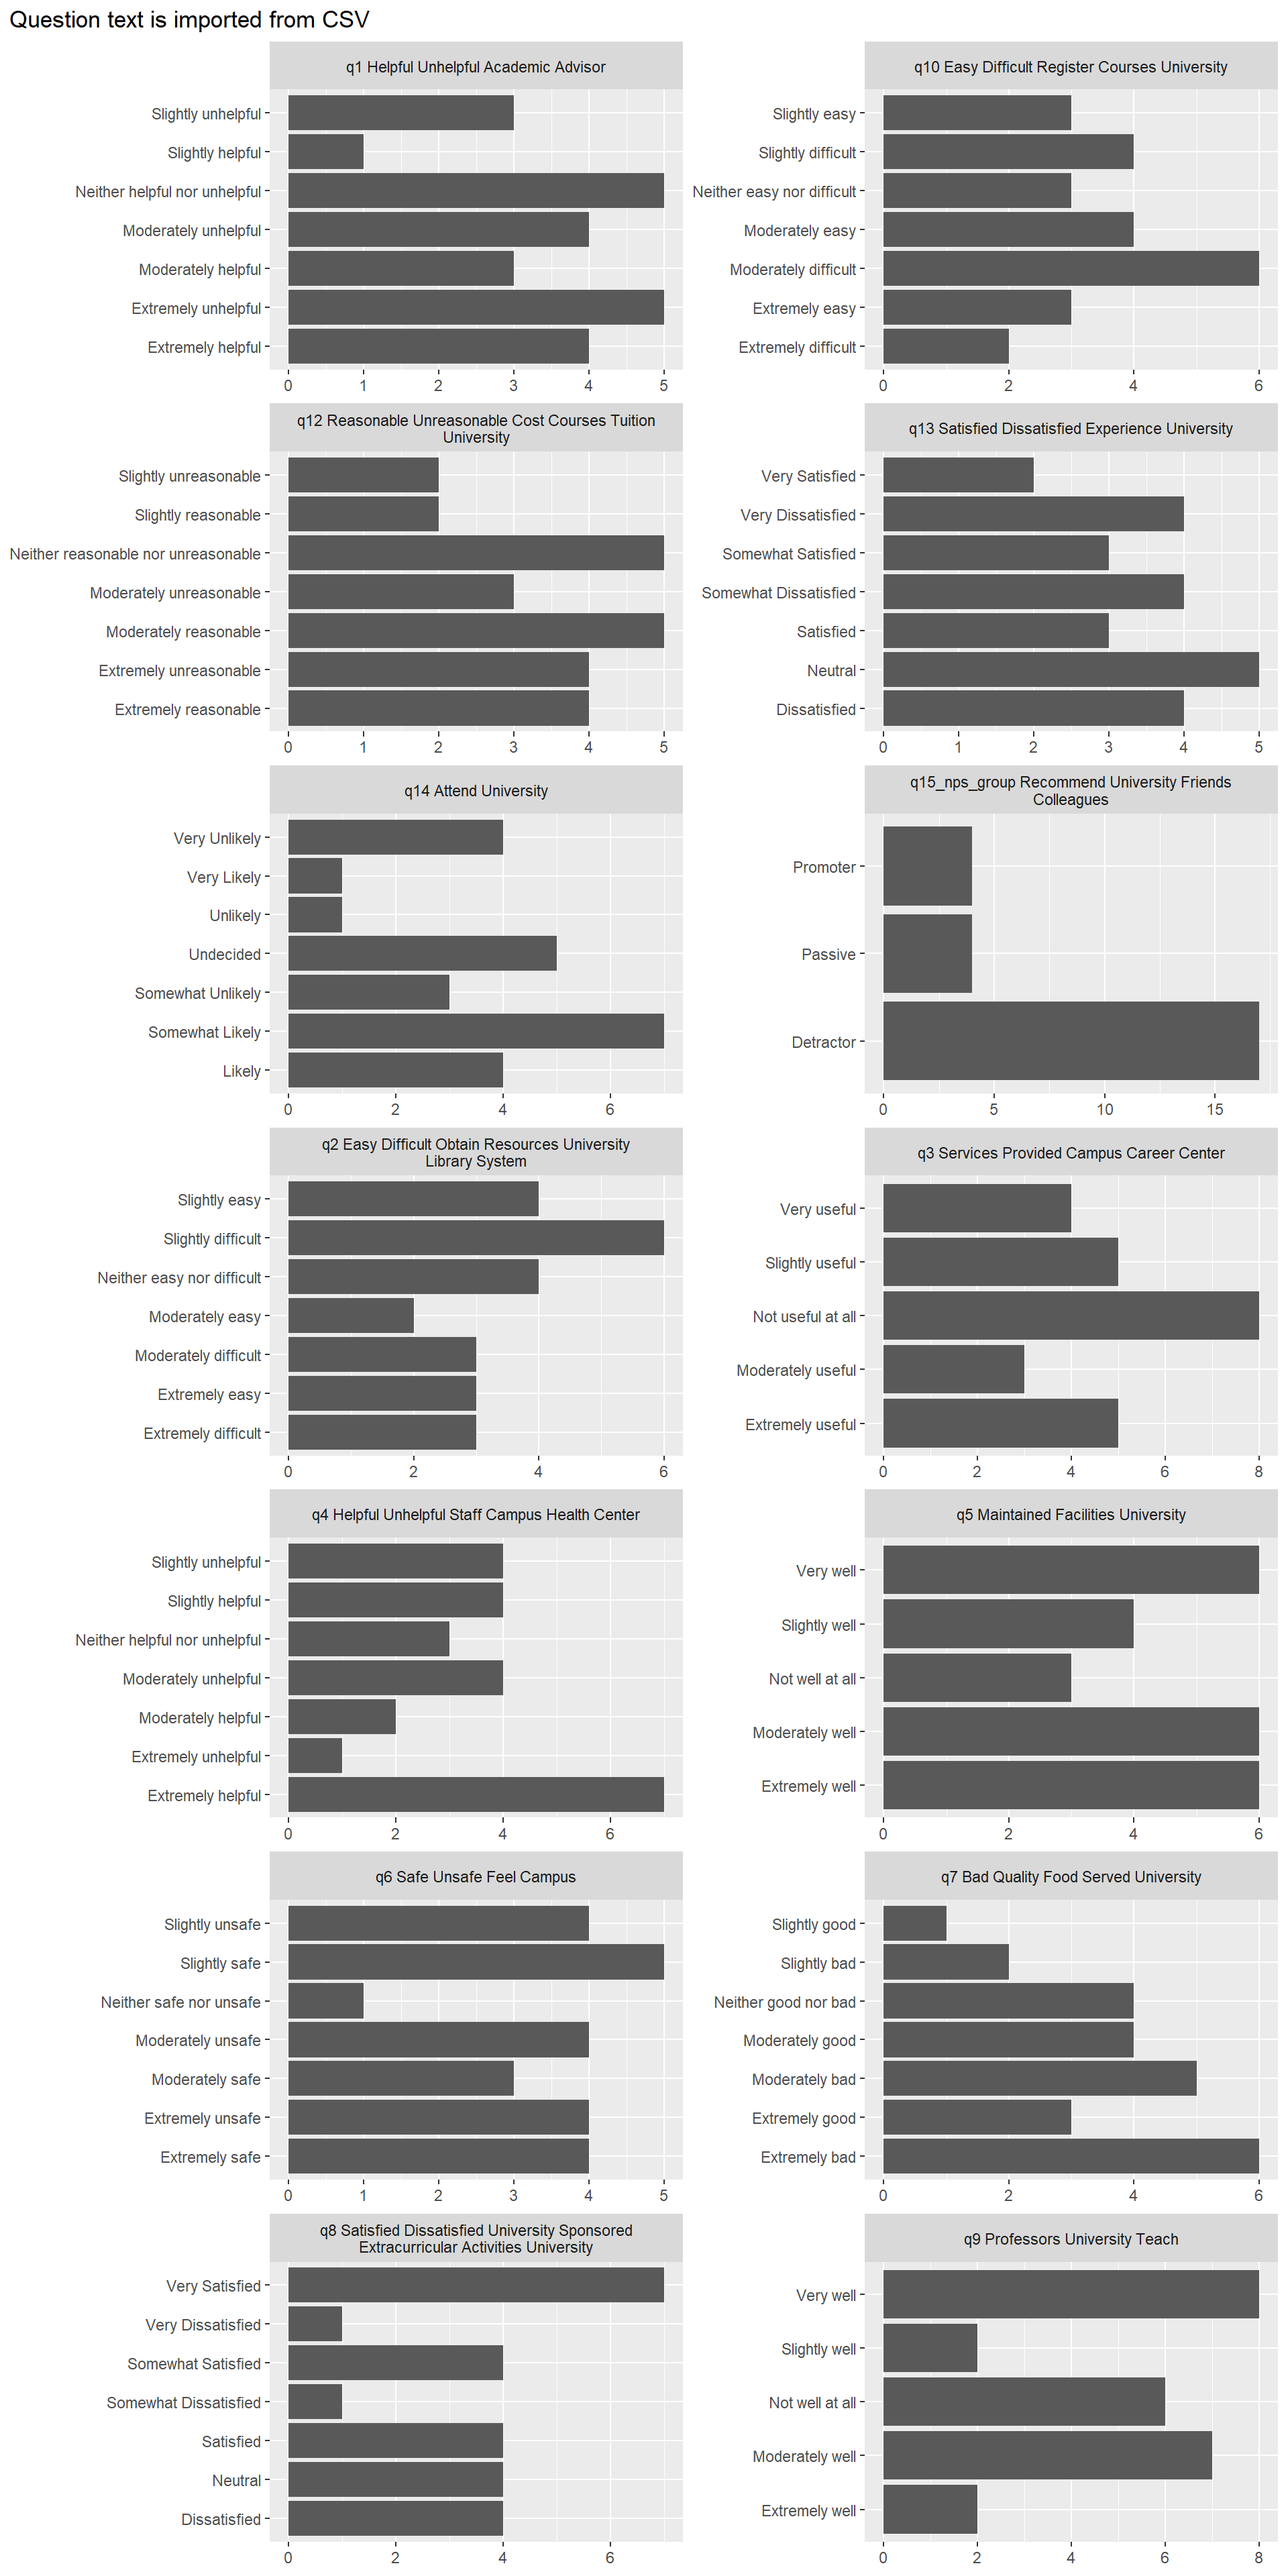
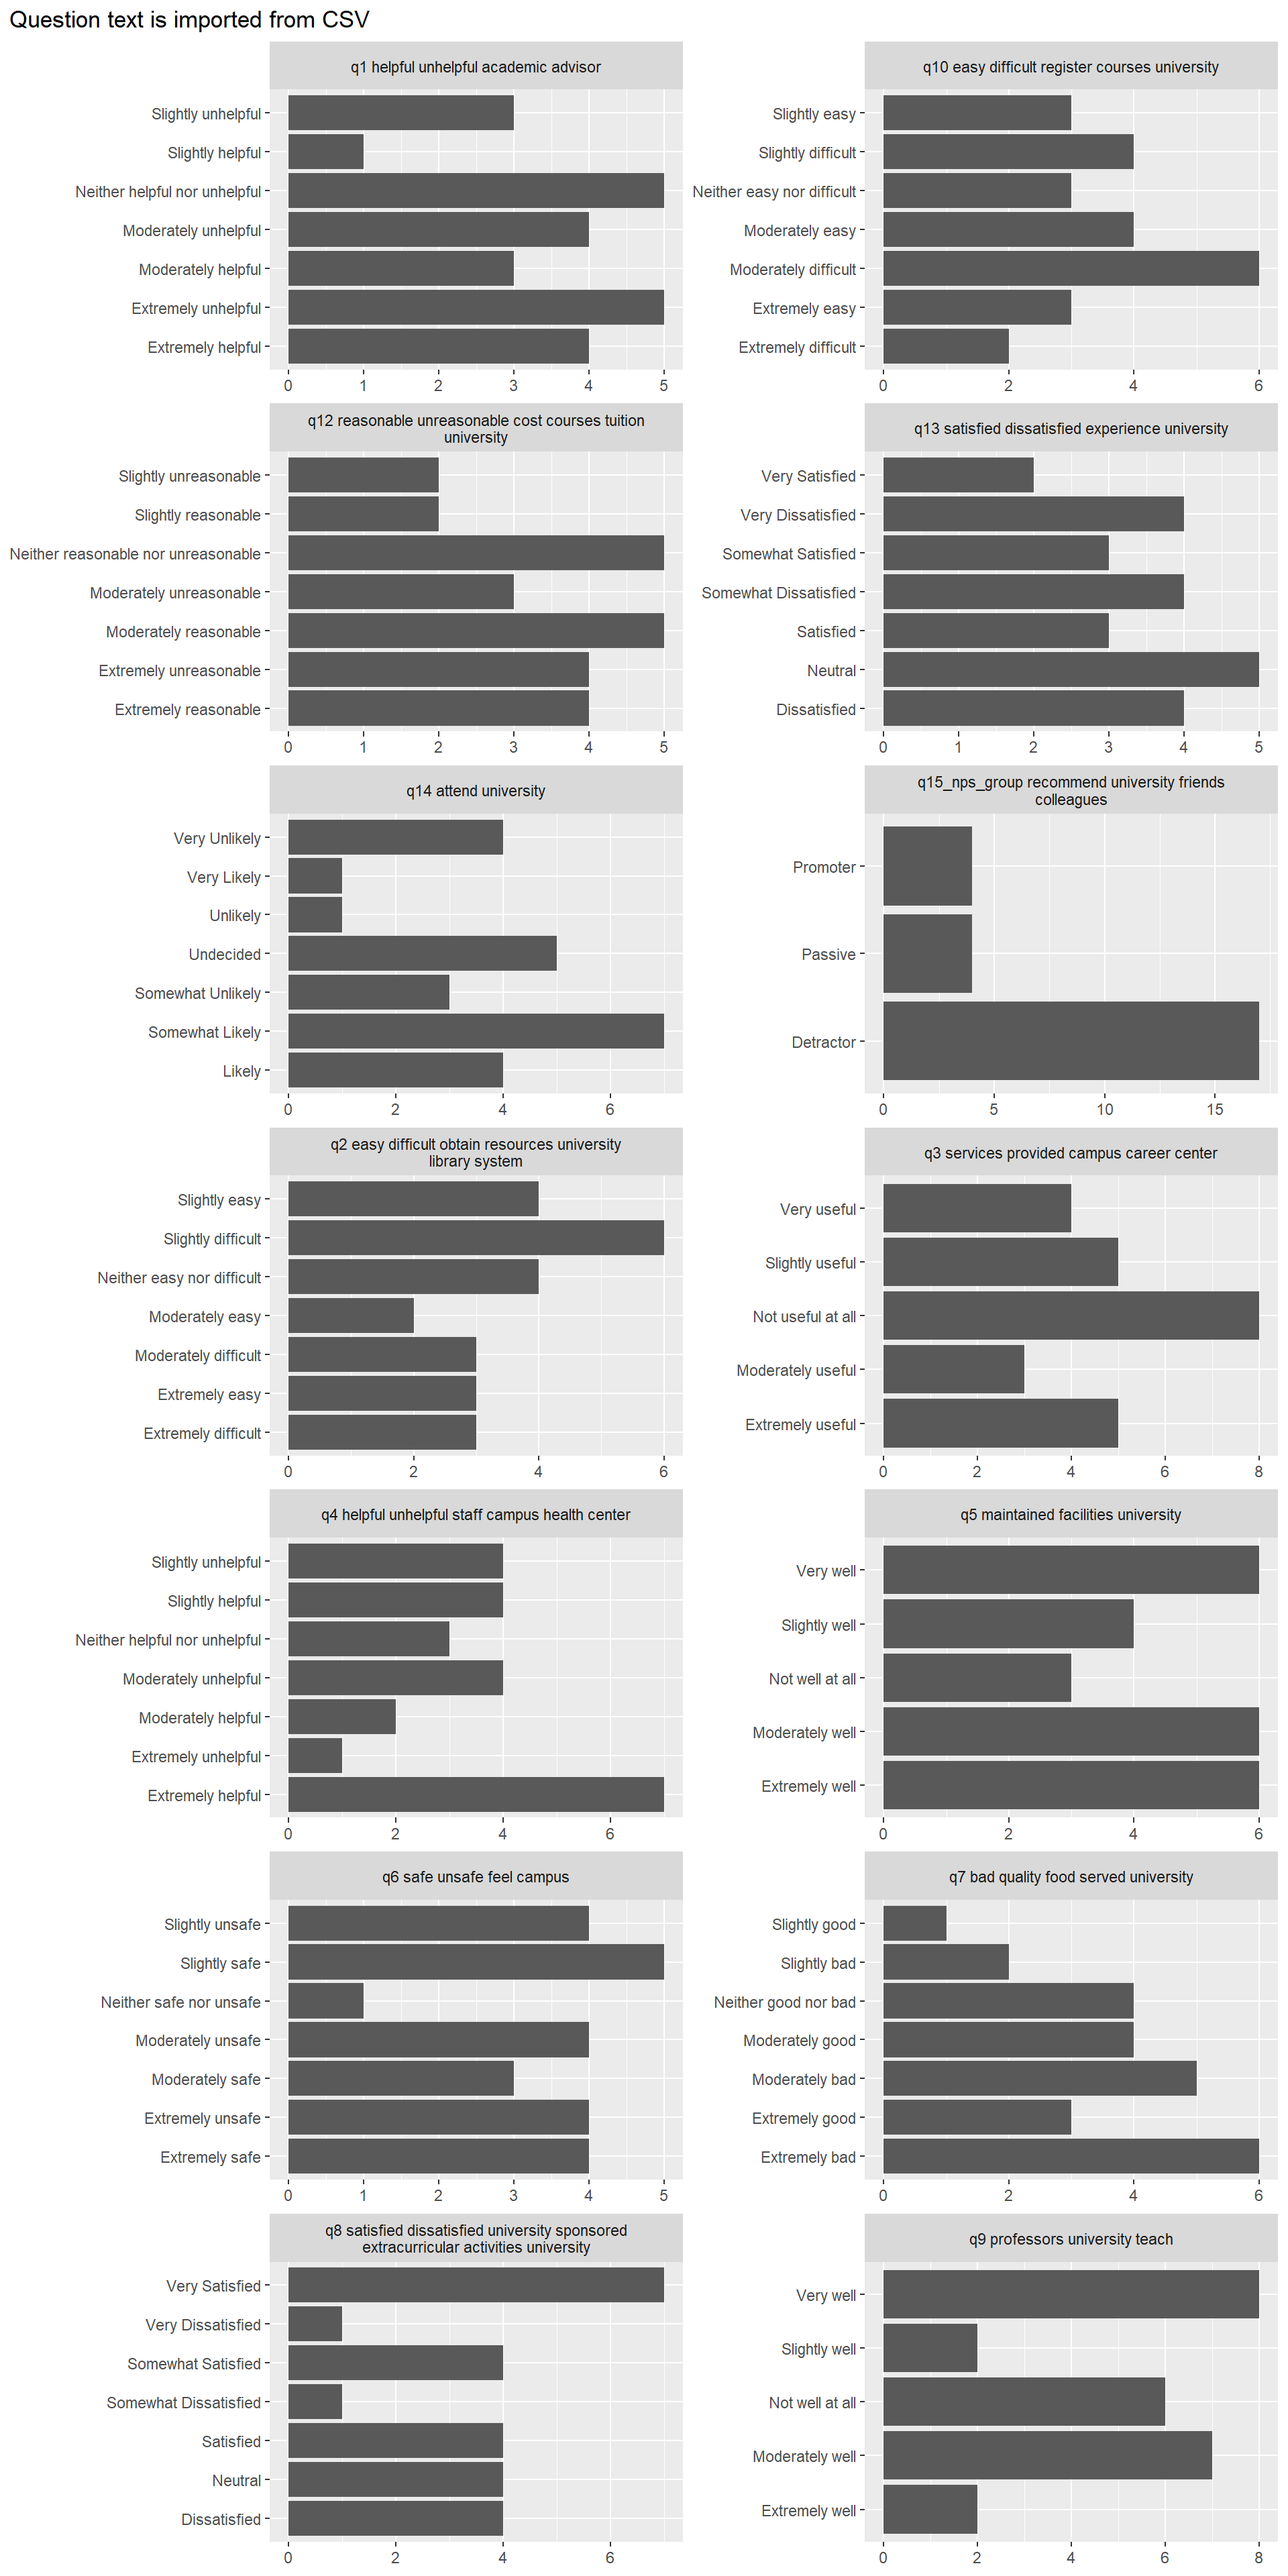
once again
- b/c readme.md

diff --git a/csv_data.html b/csv_data.html
@@ -210,8 +210,7 @@ chr (32): StartDate, EndDate, Status, IPAddress, Progress, Duration (in seco...
 <span id="cb13-9"><a href="#cb13-9" aria-hidden="true" tabindex="-1"></a>  <span class="fu">anti_join</span>(stop_words) <span class="sc">|&gt;</span> </span>
 <span id="cb13-10"><a href="#cb13-10" aria-hidden="true" tabindex="-1"></a>  <span class="fu">summarise</span>(<span class="at">question_abbreviated =</span> <span class="fu">paste</span>(word, <span class="at">collapse =</span> <span class="st">" "</span>)) <span class="sc">|&gt;</span> </span>
 <span id="cb13-11"><a href="#cb13-11" aria-hidden="true" tabindex="-1"></a>  <span class="fu">mutate</span>(<span class="at">question_abbreviated =</span> <span class="fu">str_trim</span>(question_abbreviated)) <span class="sc">|&gt;</span> </span>
-<span id="cb13-12"><a href="#cb13-12" aria-hidden="true" tabindex="-1"></a>  <span class="fu">mutate</span>(<span class="at">question_abbreviated =</span> <span class="fu">str_to_title</span>(question_abbreviated)) <span class="sc">|&gt;</span> </span>
-<span id="cb13-13"><a href="#cb13-13" aria-hidden="true" tabindex="-1"></a>  <span class="fu">mutate</span>(<span class="at">question_abbreviated =</span> <span class="fu">paste</span>(question_orig_label, <span class="st">" "</span>, question_abbreviated))</span></code><button title="Copy to Clipboard" class="code-copy-button"><i class="bi"></i></button></pre></div>
+<span id="cb13-12"><a href="#cb13-12" aria-hidden="true" tabindex="-1"></a>  <span class="fu">mutate</span>(<span class="at">question_abbreviated =</span> <span class="fu">paste</span>(question_orig_label, <span class="st">" "</span>, question_abbreviated))</span></code><button title="Copy to Clipboard" class="code-copy-button"><i class="bi"></i></button></pre></div>
 <div class="cell-output cell-output-stderr">
 <pre><code>Joining with `by = join_by(word)`</code></pre>
 </div>
@@ -223,21 +222,21 @@ chr (32): StartDate, EndDate, Status, IPAddress, Progress, Duration (in seco...
 <pre><code># A tibble: 15 × 3
    question_orig_label question_text                        question_abbreviated
    &lt;chr&gt;               &lt;chr&gt;                                &lt;chr&gt;               
- 1 q1                  "Thank you for participating in thi… q1   Helpful Unhelp…
- 2 q2                  "How easy or difficult is it to obt… q2   Easy Difficult…
- 3 q3                  "How useful are the services provid… q3   Services Provi…
- 4 q4                  "How helpful or unhelpful is the st… q4   Helpful Unhelp…
- 5 q5                  "How well maintained are the facili… q5   Maintained Fac…
- 6 q6                  "How safe or unsafe do you feel on … q6   Safe Unsafe Fe…
- 7 q7                  "How good or bad is the quality of … q7   Bad Quality Fo…
- 8 q8                  "How satisfied or dissatisfied were… q8   Satisfied Diss…
- 9 q9                  "Overall, how well do the professor… q9   Professors Uni…
-10 q10                 "How easy or difficult is it to reg… q10   Easy Difficul…
-11 q12                 "How reasonable or unreasonable is … q12   Reasonable Un…
-12 q13                 "Overall, how satisfied or dissatis… q13   Satisfied Dis…
-13 q14                 "How likely are you to attend this … q14   Attend Univer…
-14 q15_nps_group       "How likely are you to recommend th… q15_nps_group   Rec…
-15 q15                 "How likely are you to recommend th… q15   Recommend Uni…</code></pre>
+ 1 q1                  "Thank you for participating in thi… q1   helpful unhelp…
+ 2 q2                  "How easy or difficult is it to obt… q2   easy difficult…
+ 3 q3                  "How useful are the services provid… q3   services provi…
+ 4 q4                  "How helpful or unhelpful is the st… q4   helpful unhelp…
+ 5 q5                  "How well maintained are the facili… q5   maintained fac…
+ 6 q6                  "How safe or unsafe do you feel on … q6   safe unsafe fe…
+ 7 q7                  "How good or bad is the quality of … q7   bad quality fo…
+ 8 q8                  "How satisfied or dissatisfied were… q8   satisfied diss…
+ 9 q9                  "Overall, how well do the professor… q9   professors uni…
+10 q10                 "How easy or difficult is it to reg… q10   easy difficul…
+11 q12                 "How reasonable or unreasonable is … q12   reasonable un…
+12 q13                 "Overall, how satisfied or dissatis… q13   satisfied dis…
+13 q14                 "How likely are you to attend this … q14   attend univer…
+14 q15_nps_group       "How likely are you to recommend th… q15_nps_group   rec…
+15 q15                 "How likely are you to recommend th… q15   recommend uni…</code></pre>
 </div>
 </div>
 </section>
